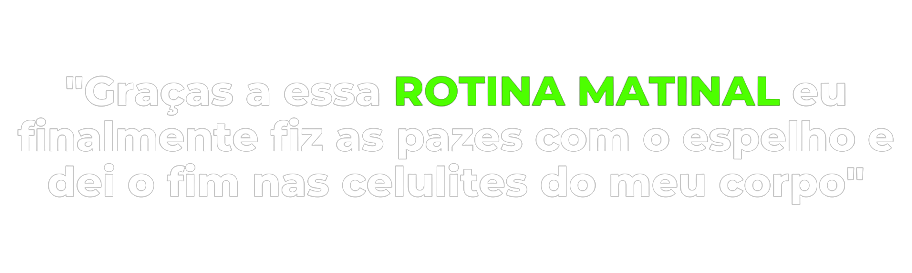
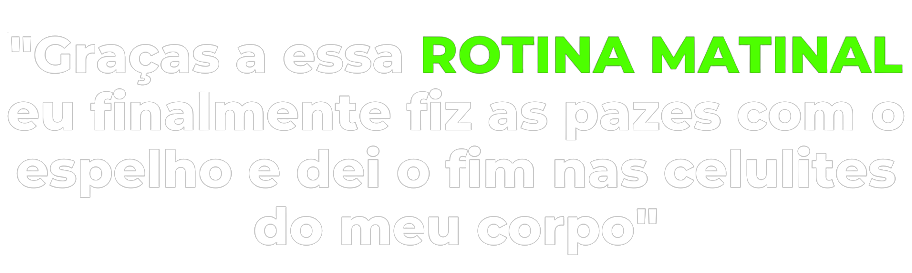
Add files via upload

diff --git a/index.html b/index.html
@@ -27,22 +27,25 @@
     </style>
     
     <!-- Meta Pixel Code -->
-<script>
-!function(f,b,e,v,n,t,s)
-{if(f.fbq)return;n=f.fbq=function(){n.callMethod?
-n.callMethod.apply(n,arguments):n.queue.push(arguments)};
-if(!f._fbq)f._fbq=n;n.push=n;n.loaded=!0;n.version='2.0';
-n.queue=[];t=b.createElement(e);t.async=!0;
-t.src=v;s=b.getElementsByTagName(e)[0];
-s.parentNode.insertBefore(t,s)}(window, document,'script',
-'https://connect.facebook.net/en_US/fbevents.js');
-fbq('init', '1065006221096432');
-fbq('track', 'PageView');
-</script>
-<noscript><img height="1" width="1" style="display:none"
-src="https://www.facebook.com/tr?id=1065006221096432&ev=PageView&noscript=1"
-/></noscript>
-<!-- End Meta Pixel Code -->
+    <script>
+      !function(f,b,e,v,n,t,s)
+      {if(f.fbq)return;n=f.fbq=function(){n.callMethod?
+      n.callMethod.apply(n,arguments):n.queue.push(arguments)};
+      if(!f._fbq)f._fbq=n;n.push=n;n.loaded=!0;n.version='2.0';
+      n.queue=[];t=b.createElement(e);t.async=!0;
+      t.src=v;s=b.getElementsByTagName(e)[0];
+      s.parentNode.insertBefore(t,s)}(window, document,'script',
+      'https://connect.facebook.net/en_US/fbevents.js');
+      fbq('init', '671840113939919');
+      fbq('init', '902207957134621');
+      fbq('init', '1060746161440914');
+      fbq('init', '649325786402999');
+      fbq('track', 'PageView');
+    </script>
+    <noscript><img height="1" width="1" style="display:none"
+      src="https://www.facebook.com/tr?id=671840113939919&ev=PageView&noscript
+    /></noscript>
+    <!-
     
   </head>
   <body>
@@ -58,7 +61,7 @@ src="https://www.facebook.com/tr?id=1065006221096432&ev=PageView&noscript=1"
             <center>
             
             <img src="headline.png"
-            width="550px">
+            width="400px">
 
             </center>
 
